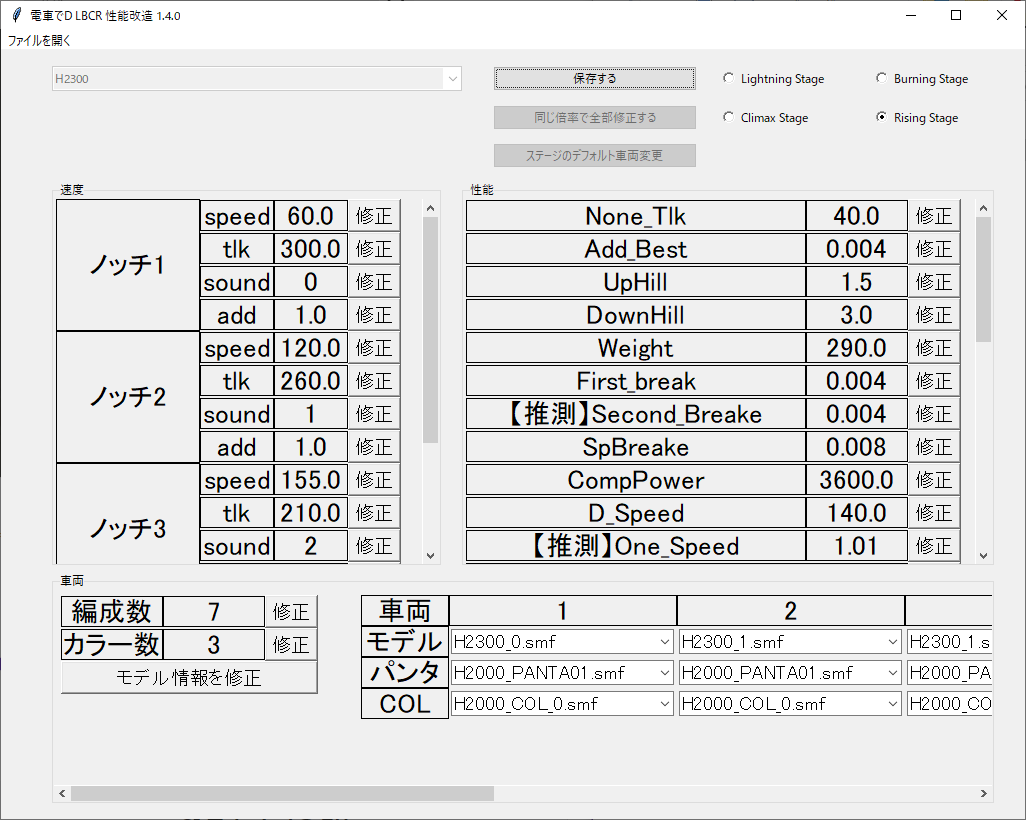
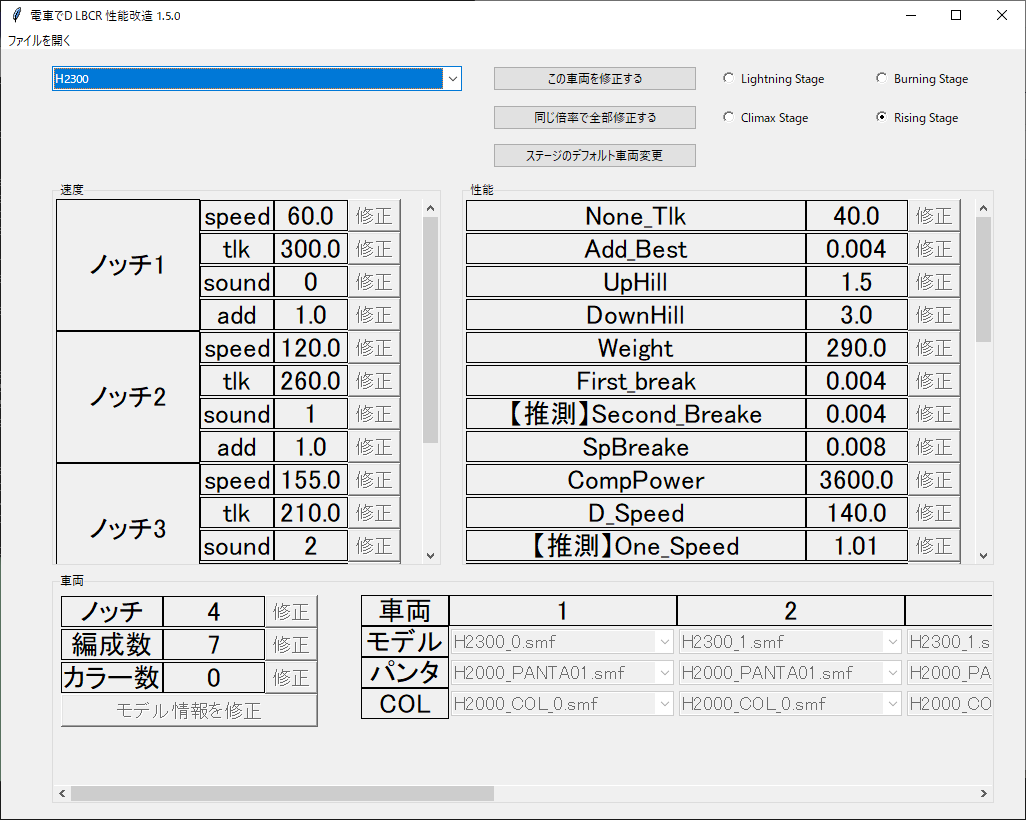
notch変更機能追加

diff --git a/editor.py b/editor.py
@@ -189,31 +189,46 @@ class hurikoWidget():
 class trainModelWidget():
     global decryptFile
     global trainWidget
+    global notchContentCnt
 
     def __init__(self, frame, canvas, modelInfo):
         self.frame = frame
         self.txtFrame = Frame(frame, padx=5, pady=5)
         self.txtFrame.place(relx=0, rely=0)
+        self.notchLb = Label(self.txtFrame, text="ノッチ", font=("", 20), width=7, borderwidth=1, relief="solid")
+        self.notchLb.grid(row=0, column=0, sticky=W+E)
+
+        idx = cb.current()
+        index = decryptFile.indexList[idx]
+        notchNum = decryptFile.byteArr[index]
+        
+        self.varNotch = IntVar()
+        self.varNotch.set(notchNum)
+        self.notchTextLb = Label(self.txtFrame, textvariable=self.varNotch, font=("", 20), width=7, borderwidth=1, relief="solid")
+        self.notchTextLb.grid(row=0, column=1, sticky=W+E)
+        self.notchBtn = Button(self.txtFrame, text="修正", font=("", 14), command=lambda:self.editNotchVar(self.varNotch, self.varNotch.get()), state="disabled")
+        self.notchBtn.grid(row=0, column=2, sticky=W+E)
+        
         self.henseiLb = Label(self.txtFrame, text="編成数", font=("", 20), width=7, borderwidth=1, relief="solid")
-        self.henseiLb.grid(row=0, column=0, sticky=W+E)
+        self.henseiLb.grid(row=1, column=0, sticky=W+E)
         self.varHensei = IntVar()
         self.varHensei.set(modelInfo["mdlCnt"])
         self.henseiTextLb = Label(self.txtFrame, textvariable=self.varHensei, font=("", 20), width=7, borderwidth=1, relief="solid")
-        self.henseiTextLb.grid(row=0, column=1, sticky=W+E)
+        self.henseiTextLb.grid(row=1, column=1, sticky=W+E)
         self.henseiBtn = Button(self.txtFrame, text="修正", font=("", 14), command=lambda:self.editHenseiVar(self.varHensei, self.varHensei.get()), state="disabled")
-        self.henseiBtn.grid(row=0, column=2, sticky=W+E)
+        self.henseiBtn.grid(row=1, column=2, sticky=W+E)
 
         self.colorLb = Label(self.txtFrame, text="カラー数", font=("", 20), width=7, borderwidth=1, relief="solid")
-        self.colorLb.grid(row=1, column=0, sticky=W+E)
+        self.colorLb.grid(row=2, column=0, sticky=W+E)
         self.varColor = IntVar()
         self.varColor.set(modelInfo["colorCnt"])
         self.colorTextLb = Label(self.txtFrame, textvariable=self.varColor, font=("", 20), width=7, borderwidth=1, relief="solid")
-        self.colorTextLb.grid(row=1, column=1, sticky=W+E)
+        self.colorTextLb.grid(row=2, column=1, sticky=W+E)
         self.colorBtn = Button(self.txtFrame, text="修正", font=("", 14), command=lambda:self.editVar(self.varColor, self.varColor.get()), state="disabled")
-        self.colorBtn.grid(row=1, column=2, sticky=W+E)
+        self.colorBtn.grid(row=2, column=2, sticky=W+E)
         
         self.mdlInfoBtn = Button(self.txtFrame, text="モデル情報を修正", font=("", 14), command=self.editModel, state="disabled")
-        self.mdlInfoBtn.grid(columnspan=3, row=2, column=0, sticky=W+E)
+        self.mdlInfoBtn.grid(columnspan=3, row=3, column=0, sticky=W+E)
 
         self.mdlFrame = Frame(frame, padx=5, pady=5)
         self.mdlFrame.place(x=300, y=0)
@@ -296,6 +311,9 @@ class trainModelWidget():
             except Exception:
                 errorMsg = "予想外のエラーです"
                 mb.showerror(title="エラー", message=errorMsg)
+
+    def editNotchVar(self, var, value):
+        editNotchInfo(root, "ノッチ情報修正")
 
     def editHenseiVar(self, var, value):
         result = sd.askstring(title="値変更", prompt="値を入力してください", initialvalue=value)
@@ -397,6 +415,67 @@ class trainModelWidget():
                 title = "BS"
             errorMsg = "{0}はモデル修正をサポートしません".format(title)
             mb.showerror(title="エラー", message=errorMsg)
+
+class editNotchInfo(sd.Dialog):
+    global decryptFile
+    global trainWidget
+    global notchContentCnt
+    
+    def __init__(self, master, title):
+        super(editNotchInfo, self).__init__(parent=master, title=title)
+
+    def body(self, frame):
+        idx = cb.current()
+        index = decryptFile.indexList[idx]
+        notchNum = decryptFile.byteArr[index]
+
+        if notchNum == 4:
+            notchIdx = 0
+        elif notchNum == 5:
+            notchIdx = 1
+        elif notchNum == 12:
+            notchIdx = 2
+        
+        self.notchLb = Label(frame, text="ノッチ情報を修正してください")
+        self.notchLb.grid(row=0, column=0)
+        notchList = ["４ノッチ", "５ノッチ", "１２ノッチ"]
+        self.notchCb = ttk.Combobox(frame, width=12, value=notchList, state="readonly")
+        self.notchCb.current(notchIdx)
+        self.notchCb.grid(row=1, column=0)
+
+    def validate(self):
+        if v_radio.get() <= BS:
+            if self.notchCb.current() == 2:
+                mb.showerror(title="エラー", message="12ノッチを対応できません")
+                return False
+        warnMsg = "ノッチ情報を修正しますか？"
+        result = mb.askokcancel(message=warnMsg, icon="warning", parent=self)
+        if result:
+            idx = cb.current()
+            
+            newNotchNum = -1
+            notchIdx = self.notchCb.current()
+            if notchIdx == 0:
+                newNotchNum = 4
+            elif notchIdx == 1:
+                newNotchNum = 5
+            elif notchIdx == 2:
+                newNotchNum = 12
+
+            if not decryptFile.saveNotchInfo(idx, newNotchNum):
+                decryptFile.printError()
+                return False
+            else:
+                return True
+    def apply(self):
+        errorMsg = "保存に失敗しました。\nファイルが他のプログラムによって開かれている\nまたは権限問題の可能性があります"
+        if not decryptFile.saveTrain():
+            decryptFile.printError()
+            mb.showerror(title="保存エラー", message=errorMsg)
+        else:
+            mb.showinfo(title="成功", message="ノッチ数を変更しました")
+            reloadFile()
+            editTrain()
 
 class editModelInfo(sd.Dialog):
     global decryptFile
@@ -955,6 +1034,7 @@ def editTrain():
     for btn in btnList:
         btn['state'] = 'normal'
 
+    trainWidget.notchBtn['state'] = 'normal'
     trainWidget.henseiBtn['state'] = 'normal'
     trainWidget.colorBtn['state'] = 'normal'
     trainWidget.mdlInfoBtn['state'] = 'normal'
@@ -998,6 +1078,7 @@ def saveTrain():
     for btn in btnList:
         btn['state'] = 'disabled'
 
+    trainWidget.notchBtn['state'] = 'disabled'
     trainWidget.henseiBtn['state'] = 'disabled'
     trainWidget.colorBtn['state'] = 'disabled'
     trainWidget.mdlInfoBtn['state'] = 'disabled'
@@ -1118,7 +1199,7 @@ def editStageTrain():
     editStageInfo(root, "ステージ情報修正")
 
 root = Tk()
-root.title("電車でD LBCR 性能改造 1.4.0")
+root.title("電車でD LBCR 性能改造 1.5.0")
 root.geometry("1024x768")
 
 menubar = Menu(root)

diff --git a/dendDecrypt/RSdecrypt.py b/dendDecrypt/RSdecrypt.py
@@ -307,6 +307,51 @@ class RSdecrypt():
             daishaIdx = line[index]
             index += 1
             self.stageList.append([stageNum, train_1pIdx, train_2pIdx, train_3pIdx, daishaIdx])
+    def saveNotchInfo(self, trainIdx, newNotchNum):
+        try:
+            newByteArr = bytearray()
+            index = self.indexList[trainIdx]
+            speed = self.trainInfoList[3*trainIdx]
+            notchContentCnt = 4
+            oldNotchNum = len(speed) // notchContentCnt
+
+            diff = newNotchNum - oldNotchNum
+            newSpeed = []
+            if diff <= 0:
+                for i in range(notchContentCnt):
+                    for j in range(newNotchNum):
+                        newSpeed.append(speed[oldNotchNum * i + j])
+            else:
+                for i in range(notchContentCnt):
+                    for j in range(oldNotchNum):
+                        newSpeed.append(speed[oldNotchNum * i + j])
+                    for j in range(diff):
+                        newSpeed.append(0)
+            
+            newByteArr.extend(self.byteArr[0:index])
+            newByteArr.append(newNotchNum)
+            index += 1
+            
+            for i in range(len(newSpeed)):
+                if i >= 2 * newNotchNum and i < 3 * newNotchNum:
+                    newByteArr.append(newSpeed[i])
+                else:
+                    byteF = struct.pack("<f", newSpeed[i])
+                    newByteArr.extend(byteF)
+                    
+            for i in range(len(speed)):
+                if i >= 2 * oldNotchNum and i < 3 * oldNotchNum:
+                    index += 1
+                else:
+                    index += 4
+
+            newByteArr.extend(self.byteArr[index:])
+            self.byteArr = newByteArr
+            return True
+        except Exception as e:
+            self.error = str(e)
+            return False
+        
     def saveTrainInfo(self, trainIdx, index, trainWidget):
         try:
             newByteArr = bytearray()

diff --git a/dendDecrypt/CSdecrypt.py b/dendDecrypt/CSdecrypt.py
@@ -292,6 +292,50 @@ class CSdecrypt():
             daishaIdx = line[index]
             index += 1
             self.stageList.append([stageNum, train_1pIdx, train_2pIdx, train_3pIdx, daishaIdx])
+    def saveNotchInfo(self, trainIdx, newNotchNum):
+        try:
+            newByteArr = bytearray()
+            index = self.indexList[trainIdx]
+            speed = self.trainInfoList[3*trainIdx]
+            notchContentCnt = 4
+            oldNotchNum = len(speed) // notchContentCnt
+
+            diff = newNotchNum - oldNotchNum
+            newSpeed = []
+            if diff <= 0:
+                for i in range(notchContentCnt):
+                    for j in range(newNotchNum):
+                        newSpeed.append(speed[oldNotchNum * i + j])
+            else:
+                for i in range(notchContentCnt):
+                    for j in range(oldNotchNum):
+                        newSpeed.append(speed[oldNotchNum * i + j])
+                    for j in range(diff):
+                        newSpeed.append(0)
+            
+            newByteArr.extend(self.byteArr[0:index])
+            newByteArr.append(newNotchNum)
+            index += 1
+            
+            for i in range(len(newSpeed)):
+                if i >= 2 * newNotchNum and i < 3 * newNotchNum:
+                    newByteArr.append(newSpeed[i])
+                else:
+                    byteF = struct.pack("<f", newSpeed[i])
+                    newByteArr.extend(byteF)
+                    
+            for i in range(len(speed)):
+                if i >= 2 * oldNotchNum and i < 3 * oldNotchNum:
+                    index += 1
+                else:
+                    index += 4
+
+            newByteArr.extend(self.byteArr[index:])
+            self.byteArr = newByteArr
+            return True
+        except Exception as e:
+            self.error = str(e)
+            return False
     def saveTrainInfo(self, trainIdx, index, trainWidget):
         try:
             newByteArr = bytearray()

diff --git a/dendDecrypt/BSdecrypt.py b/dendDecrypt/BSdecrypt.py
@@ -291,6 +291,44 @@ class BSdecrypt():
                 train_3pIdx = -1
             index += 1
             self.stageList.append([stageNum, train_1pIdx, train_2pIdx, train_3pIdx])
+    def saveNotchInfo(self, trainIdx, newNotchNum):
+        try:
+            newByteArr = bytearray()
+            index = self.indexList[trainIdx]
+            speed = self.trainInfoList[2*trainIdx]
+            notchContentCnt = 2
+            oldNotchNum = len(speed) // notchContentCnt
+
+            diff = newNotchNum - oldNotchNum
+            newSpeed = []
+            if diff <= 0:
+                for i in range(notchContentCnt):
+                    for j in range(newNotchNum):
+                        newSpeed.append(speed[oldNotchNum * i + j])
+            else:
+                for i in range(notchContentCnt):
+                    for j in range(oldNotchNum):
+                        newSpeed.append(speed[oldNotchNum * i + j])
+                    for j in range(diff):
+                        newSpeed.append(0)
+            
+            newByteArr.extend(self.byteArr[0:index])
+            newByteArr.append(newNotchNum)
+            index += 1
+            
+            for i in range(len(newSpeed)):
+                byteF = struct.pack("<f", newSpeed[i])
+                newByteArr.extend(byteF)
+            
+            for i in range(len(speed)):
+                index += 4
+
+            newByteArr.extend(self.byteArr[index:])
+            self.byteArr = newByteArr
+            return True
+        except Exception as e:
+            self.error = str(e)
+            return False
     def saveTrainInfo(self, trainIdx, index, trainWidget):
         try:            
             modelInfo = self.trainModelList[trainIdx]

diff --git a/dendDecrypt/LSdecrypt.py b/dendDecrypt/LSdecrypt.py
@@ -258,6 +258,44 @@ class LSdecrypt():
                 index += 4
 
             self.trainModelList.append(train)
+    def saveNotchInfo(self, trainIdx, newNotchNum):
+        try:
+            newByteArr = bytearray()
+            index = self.indexList[trainIdx]
+            speed = self.trainInfoList[2*trainIdx]
+            notchContentCnt = 2
+            oldNotchNum = len(speed) // notchContentCnt
+
+            diff = newNotchNum - oldNotchNum
+            newSpeed = []
+            if diff <= 0:
+                for i in range(notchContentCnt):
+                    for j in range(newNotchNum):
+                        newSpeed.append(speed[oldNotchNum * i + j])
+            else:
+                for i in range(notchContentCnt):
+                    for j in range(oldNotchNum):
+                        newSpeed.append(speed[oldNotchNum * i + j])
+                    for j in range(diff):
+                        newSpeed.append(0)
+            
+            newByteArr.extend(self.byteArr[0:index])
+            newByteArr.append(newNotchNum)
+            index += 1
+            
+            for i in range(len(newSpeed)):
+                byteF = struct.pack("<f", newSpeed[i])
+                newByteArr.extend(byteF)
+            
+            for i in range(len(speed)):
+                index += 4
+
+            newByteArr.extend(self.byteArr[index:])
+            self.byteArr = newByteArr
+            return True
+        except Exception as e:
+            self.error = str(e)
+            return False
     def saveTrainInfo(self, trainIdx, index, trainWidget):
         try:            
             modelInfo = self.trainModelList[trainIdx]
